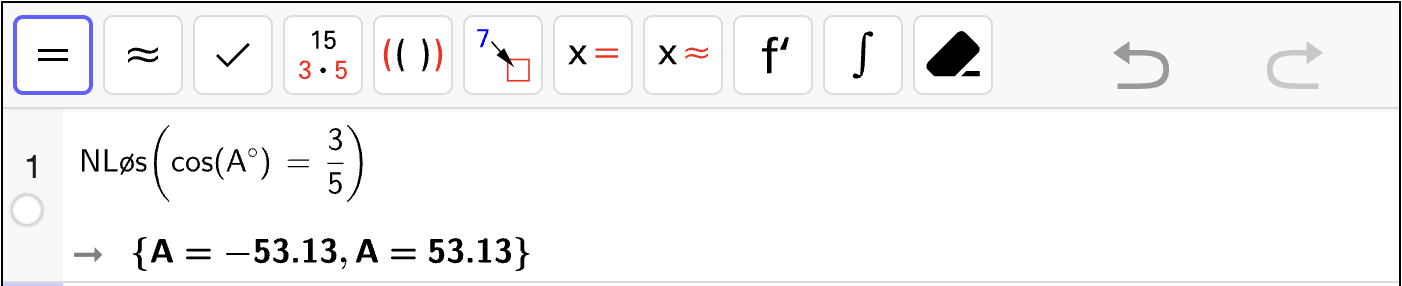
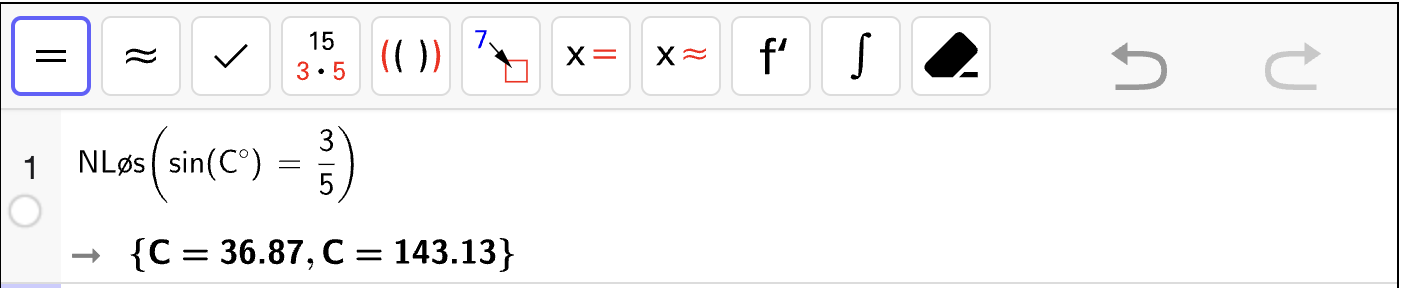
update

diff --git a/book/trigonometri/definisjoner/teori.md b/book/trigonometri/definisjoner/teori.md
@@ -260,7 +260,7 @@ class: no-click
 ---
 :::
 
-Bruk CAS-vindu nedenfor til å bestemme vinkel $A$. 
+Bruk CAS-vindu nedenfor til å bestemme vinkel $C$. 
 
 :::{raw} html
 ---
@@ -283,7 +283,7 @@ class: no-click
 Fra utskriften kan lese av at vinkelen $A$ er
 
 $$
-A \approx 36.87^\circ
+C \approx 36.87^\circ
 $$
 
 siden dette er den eneste løsningen av likningen som ligger mellom $0$ og $90$ grader.
